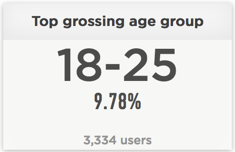
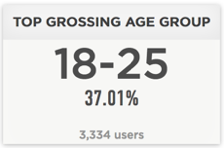
added images

diff --git a/index.html b/index.html
@@ -67,7 +67,7 @@
                 footer: "3,334 users",
                 data: {
                     value: "18-25",
-                    partial: 234,
+                    partial: 1234,
                     total : 3334
                 },
 
